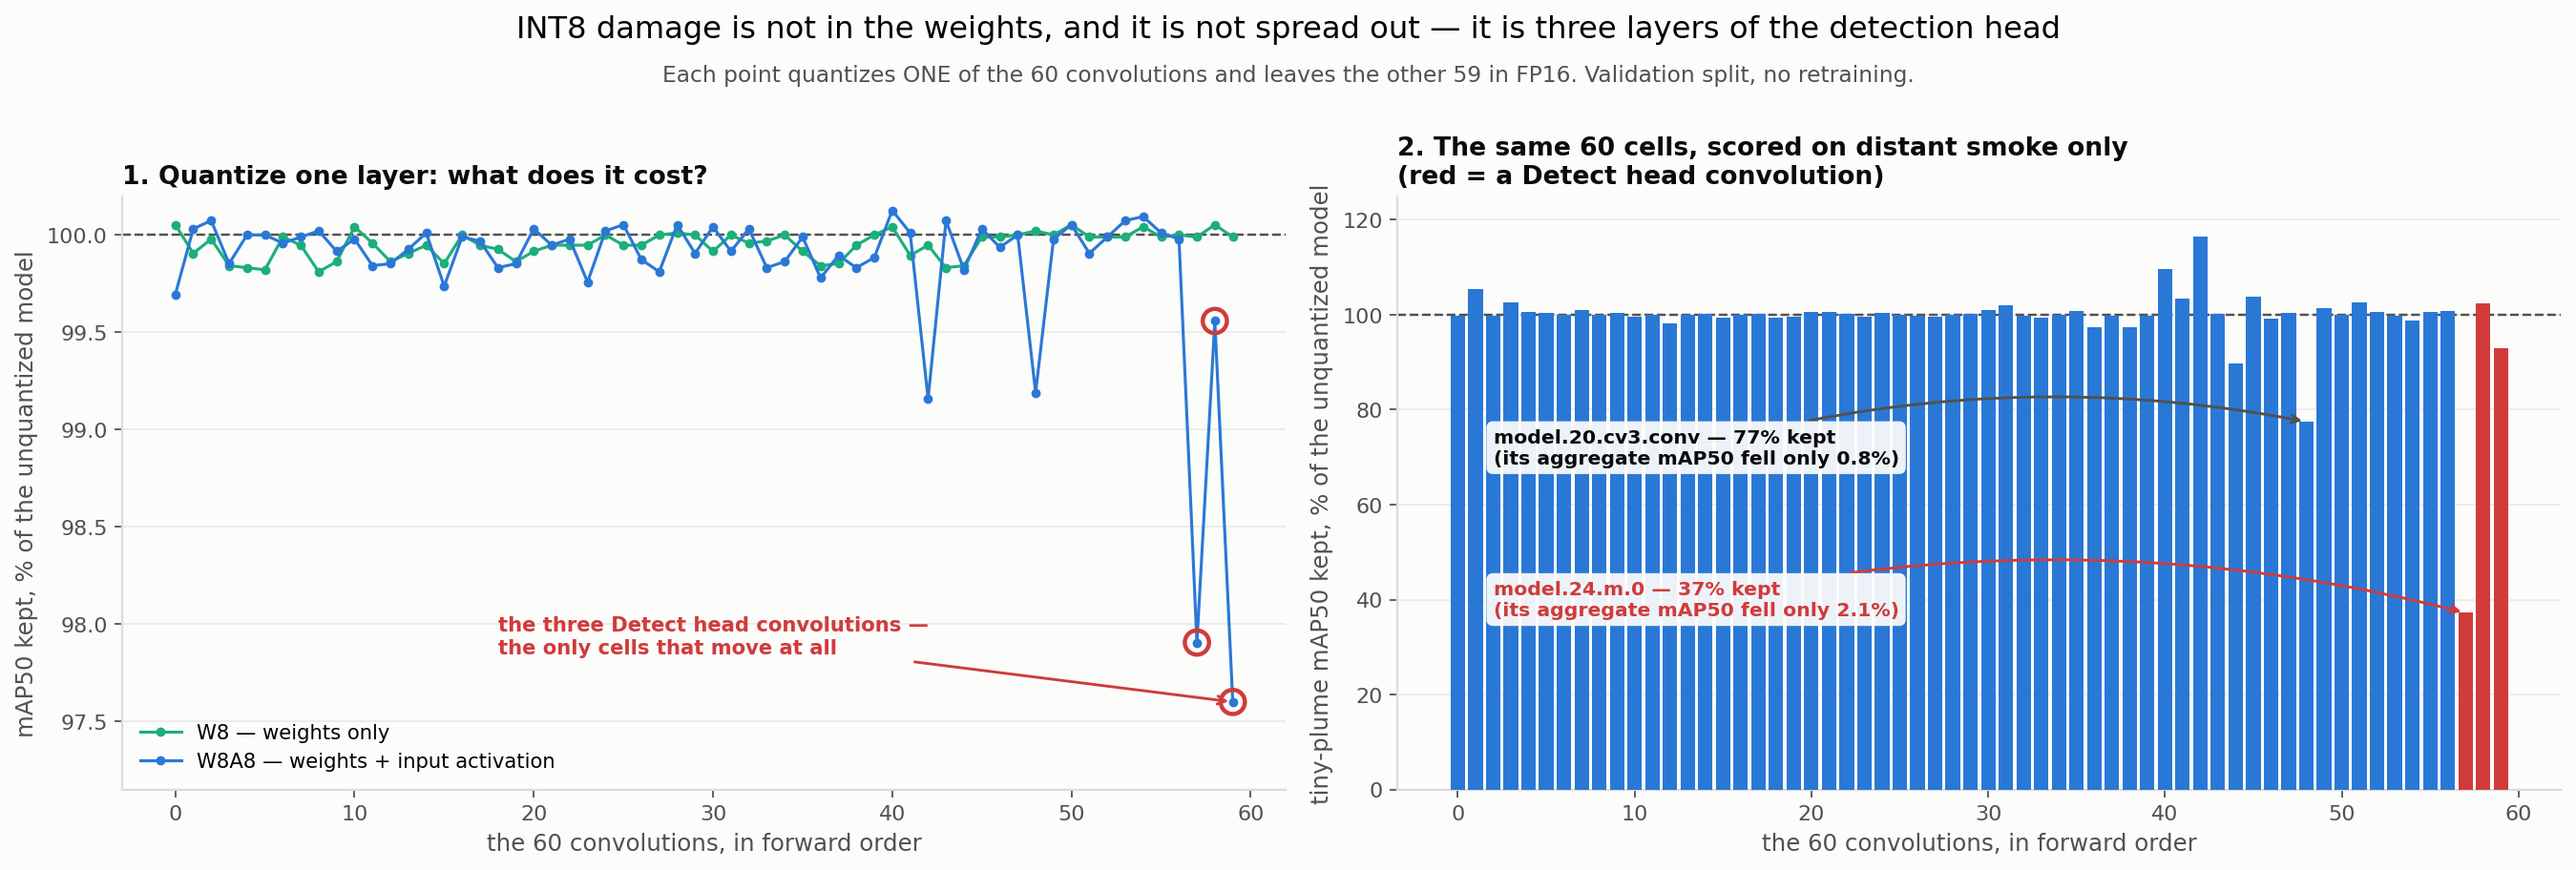
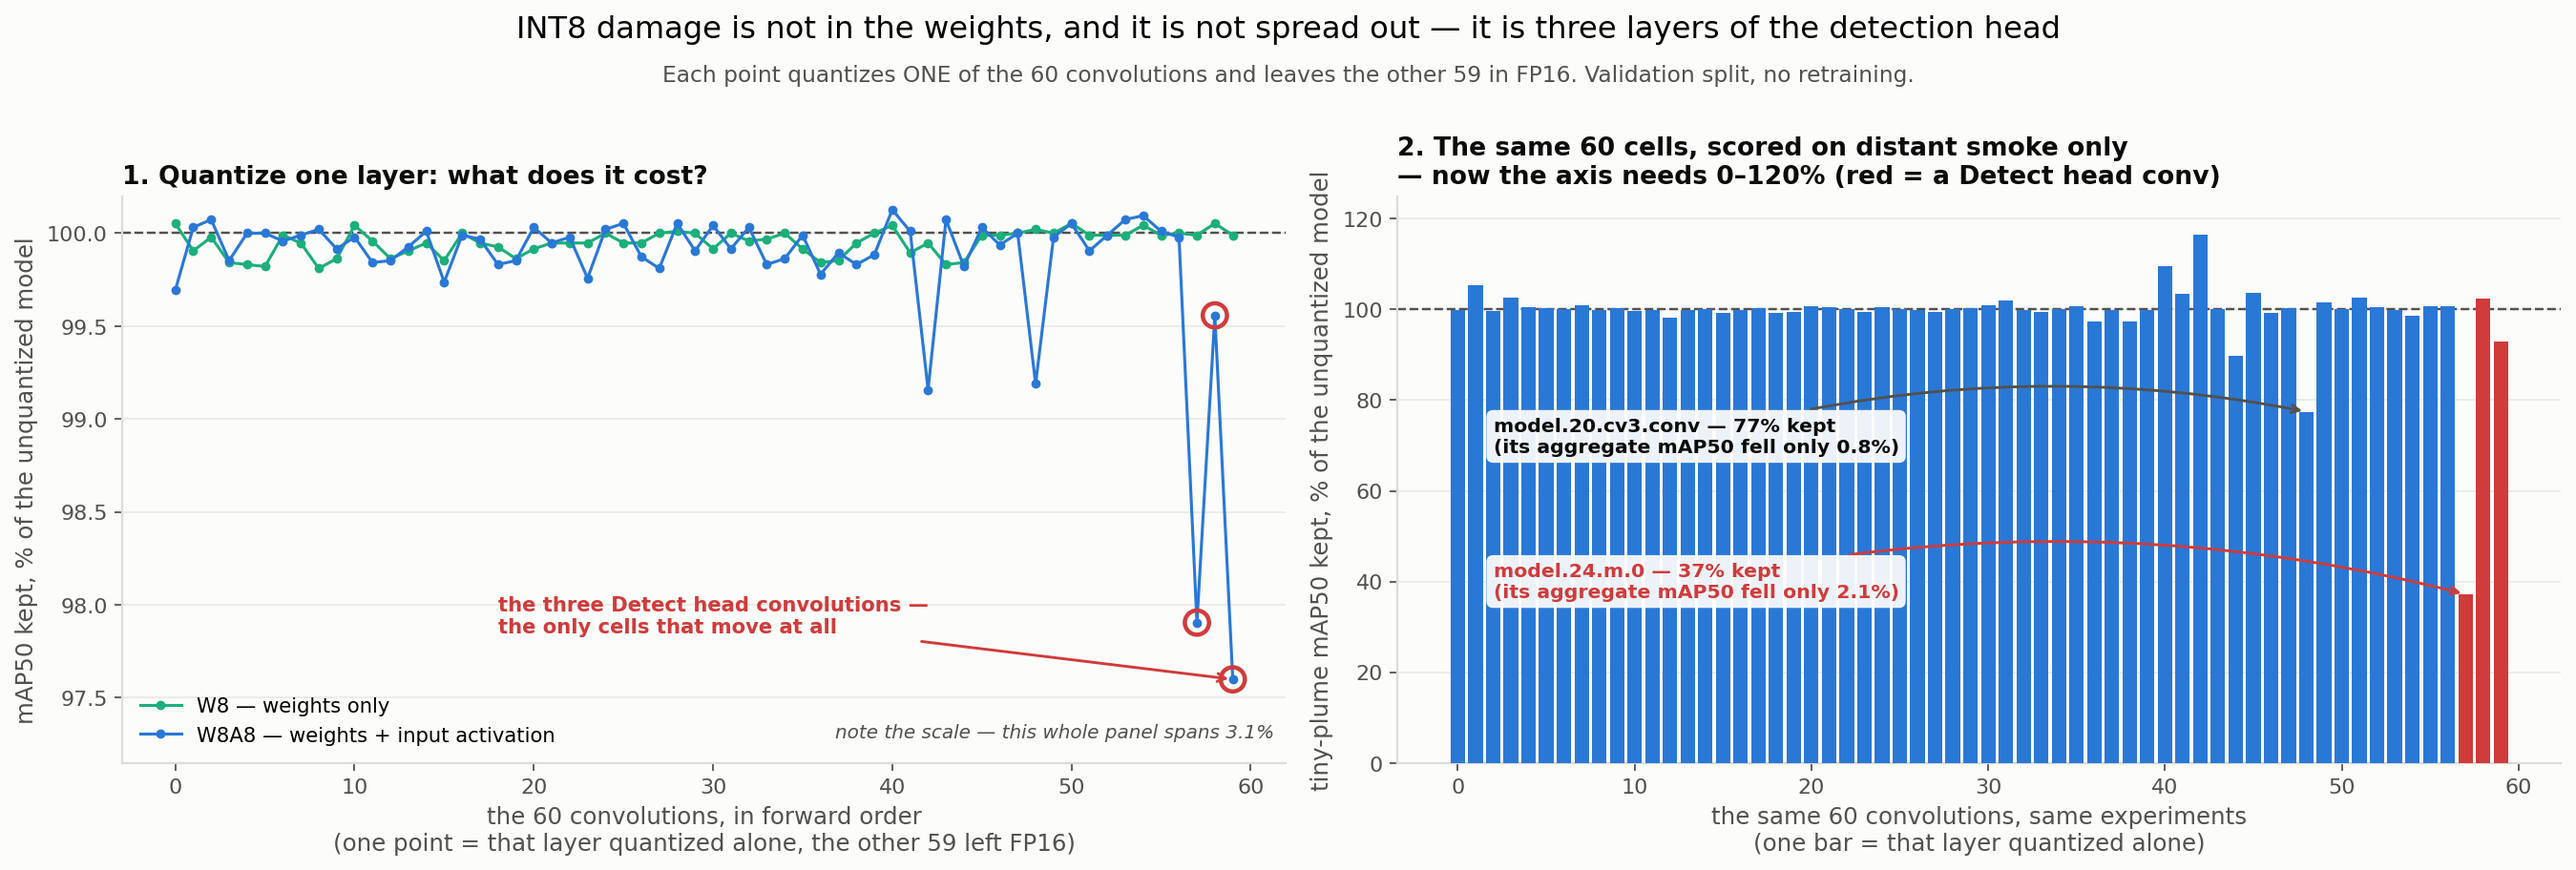
XP7-E1: make the sensitivity figure's axes say what they are
The figure had no caption and the two panels' y-axes looked unrelated, so the
obvious reading was that panel 2 measured something else. It does not: both
panels are the same 60 experiments -- one point or bar per convolution, that
layer quantized alone -- and both axes are "% of the unquantized model kept".

What differs is the slice, and that is the whole finding:

  panel 1, aggregate mAP50   axis spans 3.1%, only the head moves
  panel 2, tiny plumes       axis needs 0-120%, same runs

Both x-labels now say what one point is, panel 1 carries a note that its range
is 3.1% wide, panel 2's title says the axis needs 0-120%, and the page has a
caption stating both.

Also added the sentence the section was missing: "W8A8 is fine except the last
layers" is true of the aggregate and false of the slice -- the left panel
supports it, the right panel is the same experiments and does not.

diff --git a/analysis/make_figures.py b/analysis/make_figures.py
@@ -2818,9 +2818,15 @@ def fig_xp07e1(records) -> Path | None:
                 xytext=(len(order) * 0.30, lo + 0.25), ha="left", fontsize=9.5,
                 color=style.RED, fontweight="bold",
                 arrowprops=dict(arrowstyle="->", color=style.RED, lw=1.3))
-    ax.set_xlabel("the 60 convolutions, in forward order")
+    ax.set_xlabel("the 60 convolutions, in forward order\n"
+                  "(one point = that layer quantized alone, the other 59 left FP16)")
     ax.set_ylabel("mAP50 kept, % of the unquantized model")
     ax.set_title("1. Quantize one layer: what does it cost?", fontsize=12, loc="left")
+    # The narrow range is the reason panel 2 exists; say so on the panel.
+    ax.text(0.99, 0.045, f"note the scale — this whole panel spans "
+                         f"{100.2 - (lo - 0.45):.1f}%",
+            transform=ax.transAxes, ha="right", fontsize=9, color=style.INK_2,
+            style="italic")
     ax.legend(loc="lower left", fontsize=9.5)
     style.tidy(ax)
 
@@ -2852,10 +2858,12 @@ def fig_xp07e1(records) -> Path | None:
                     arrowprops=dict(arrowstyle="->", lw=1.3, zorder=6,
                                     connectionstyle="arc3,rad=-0.12",
                                     color=style.RED if n in head else style.INK_2))
-    ax.set_xlabel("the 60 convolutions, in forward order")
+    ax.set_xlabel("the same 60 convolutions, same experiments\n"
+                  "(one bar = that layer quantized alone)")
     ax.set_ylabel("tiny-plume mAP50 kept, % of the unquantized model")
     ax.set_title("2. The same 60 cells, scored on distant smoke only\n"
-                 "(red = a Detect head convolution)", fontsize=12, loc="left")
+                 "— now the axis needs 0–120% (red = a Detect head conv)",
+                 fontsize=12, loc="left")
     style.tidy(ax)
 
     fig.tight_layout()

diff --git a/experiments/xp07_quant/README.md b/experiments/xp07_quant/README.md
@@ -169,6 +169,12 @@ That asymmetry is XP10's unexplained fingerprint: mAP50 0.2554, tiny plumes −9
 
 ![Where INT8 damage lives](../../results/figures/xp07e1_sensitivity.png)
 
+*Both panels plot the same 60 experiments — one point or bar per convolution, that layer quantized
+alone with the other 59 left in FP16 — and both y-axes are **% of the unquantized model kept**.
+**Left**, scored on aggregate mAP50: the whole panel spans 3.1%, and only the three head
+convolutions move at all. **Right**, the identical runs scored on plumes under 0.1% of the frame:
+the axis now needs 0–120%. Same perturbations, same models; the slice is what separates them.*
+
 - **W8 is free, everywhere.** Worst cell **0.19%**, median 0.04%. The three head convs average
   **−0.010%** — noise. No layer needs more than 8 bits for its weights.
 - **W8A8 damage is 20x concentrated.** Head convs lose **1.65%** on average vs **0.080%** for the
@@ -189,6 +195,8 @@ That asymmetry is XP10's unexplained fingerprint: mAP50 0.2554, tiny plumes −9
   0.763, 0.359).
 - **The second-worst layer for distant smoke is not in the head at all.** `model.20.cv3.conv` sits
   in the neck. A hand-picked "protect the head" split misses it.
+- **So "W8A8 is fine except the last layers" is true of the aggregate and false of the slice.** The
+  left panel supports it; the right panel is the same experiments and does not.
 
 **Conclusion.** INT8 here is a three-tensor problem, not a whole-network one, and the tensor that
 matters most is the input to the small-object head. The two rankings E1 produces share **one**
